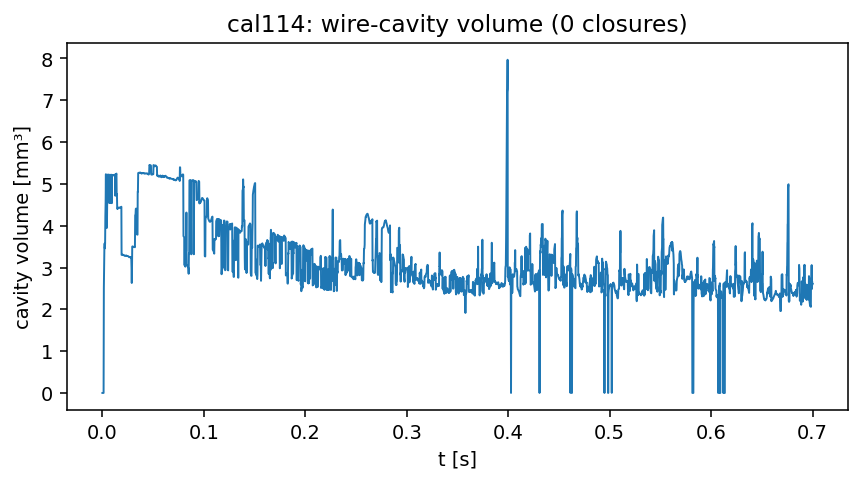
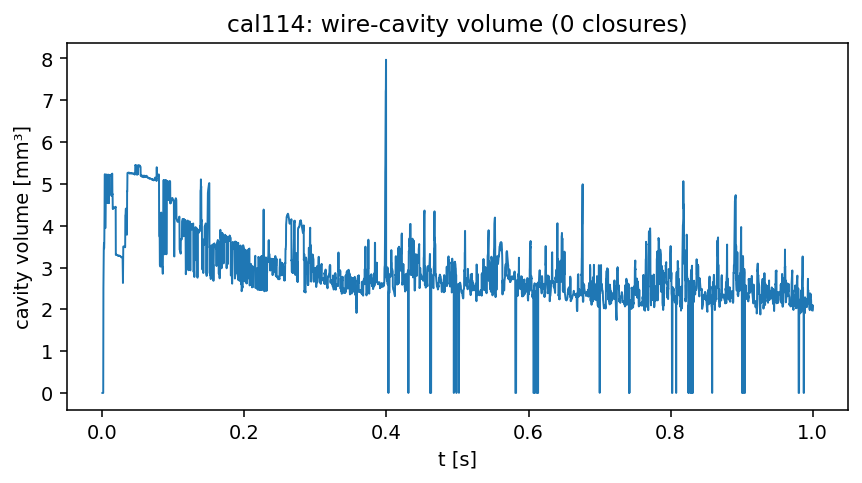
Post cal114 at 1.00 s. The crest falls and no bubble locks.
The trail is 1.15 mm against a 0.99 mm lead, with the plate still
wetted. The score-8 slice stays the 0.70 s cut.

diff --git a/results/calibration/taosun03/README.md b/results/calibration/taosun03/README.md
@@ -275,3 +275,5 @@ cal114 is cal103's pinned notch with substrate absorptivity raised from 0.55 to 
 cal113 at 0.90 s loses the crest the same way cal108 did. The trail is 0.84 mm and the lead is 0.99 mm, with the plate still wetted and 18 of 18 columns melted. Score 3. The score-8 slice remains the 0.65 s cut. The preheated pool is not continued further.
 
 cal115 keeps cal114's plate, power, and absorptivity, and lowers the wire floor from 30° to 15° so the 29° cells pin. It runs to 0.55 s.
+
+At 1.00 s cal114's crest has fallen. The trail is 1.15 mm and the lead is 0.99 mm, 12 of 22 columns are melted, and 8 of 13 wire cells recede at 24°. Score 3. The plate line is still not receding, and there is still no pool bubble. The score-8 cut is the 0.70 s one, `cal114_0p70_side_alpha_T.png`. The run stops.
